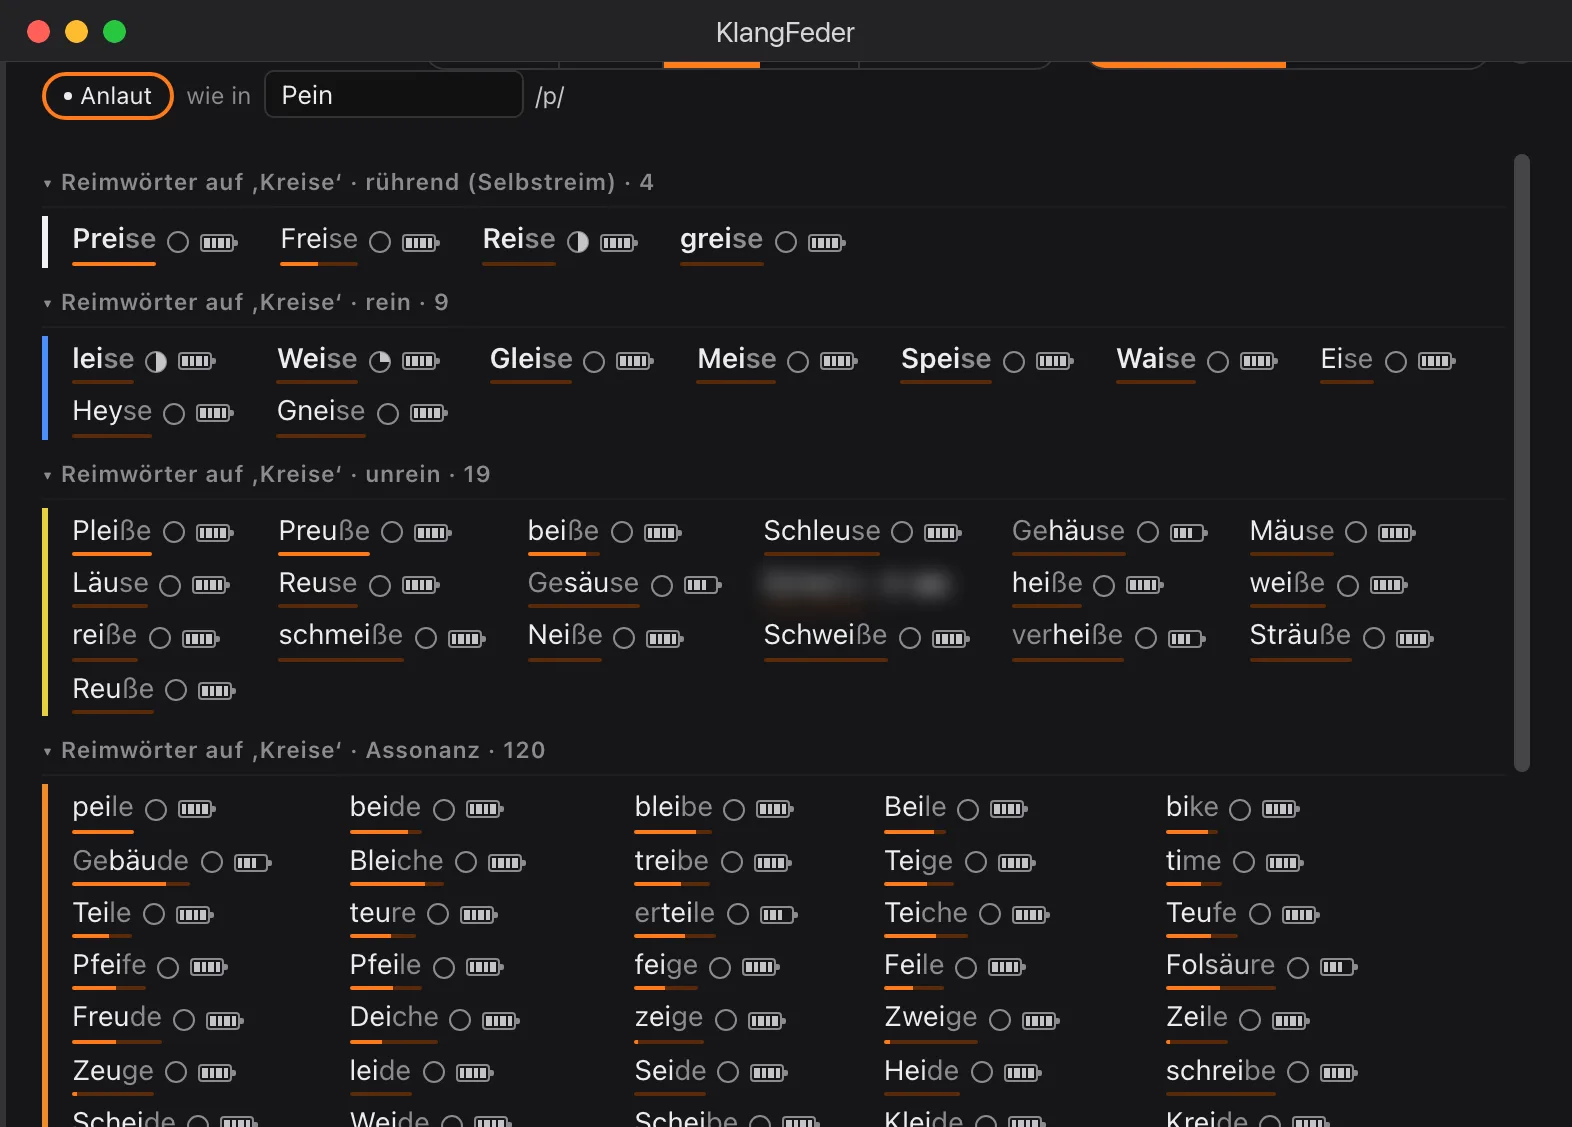
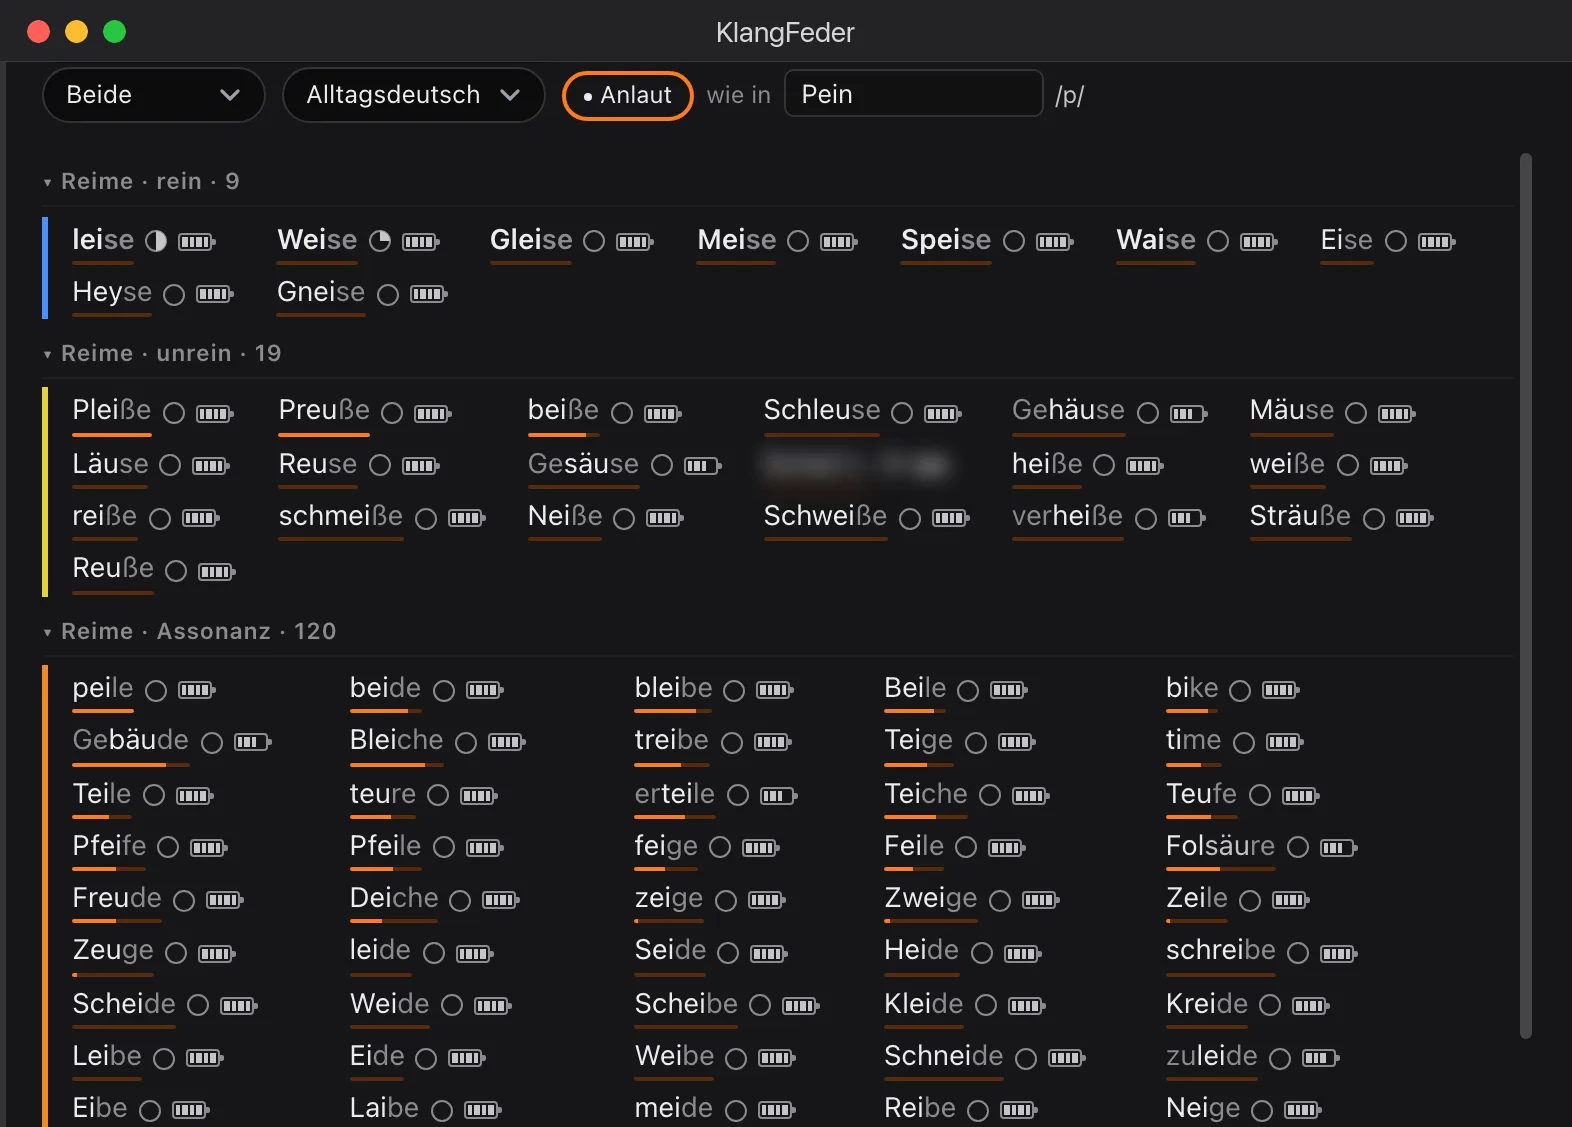
Feature-Seite und README: Werkbank-Bilder neu (Kopfzeile, Filterzeile, ohne ×, Gruppenreihenfolge, «Начальный звук»), BV 27; Aufnahme: Esc statt ×

diff --git a/docs/inhalt.js b/docs/inhalt.js
@@ -424,7 +424,7 @@ S.laden = {
       ru:'<b>Системные требования.</b> Около 1,5 ГБ свободного места для программы и словарей. Современный веб-браузер. Другие системы Linux: <a href="https://github.com/CasparDavi/klangfeder/releases/latest/download/KlangFeder-x86_64.AppImage">AppImage</a>. Без цифровой подписи: в Windows браузер Edge сначала задерживает загрузку — нажмите стрелку рядом с «Удалить» → «Сохранить»; при первом запуске Windows может спросить ещё раз, а macOS блокирует приложение, пока вы не разрешите его в разделе «Конфиденциальность и безопасность» → «Всё равно открыть». После установки колокольчик рядом с «Система» сообщает о новой версии; один клик её устанавливает.'}
 };
 
-const BV = '26';   // Bildstand: hochzählen, wenn Bilder ersetzt werden (sonst zeigt der Browser alte)
+const BV = '27';   // Bildstand: hochzählen, wenn Bilder ersetzt werden (sonst zeigt der Browser alte)
 const BILDER = {
   titel: { sprachen: { de: `img/titel-de.webp?v=${BV}`, en: `img/titel-en.webp?v=${BV}`, ru: `img/titel-ru.webp?v=${BV}` } },
   schreiben: { sprachen: { de: `img/schreiben-de.webp?v=${BV}`, en: `img/schreiben-en.webp?v=${BV}`, ru: `img/schreiben-ru.webp?v=${BV}` } },
